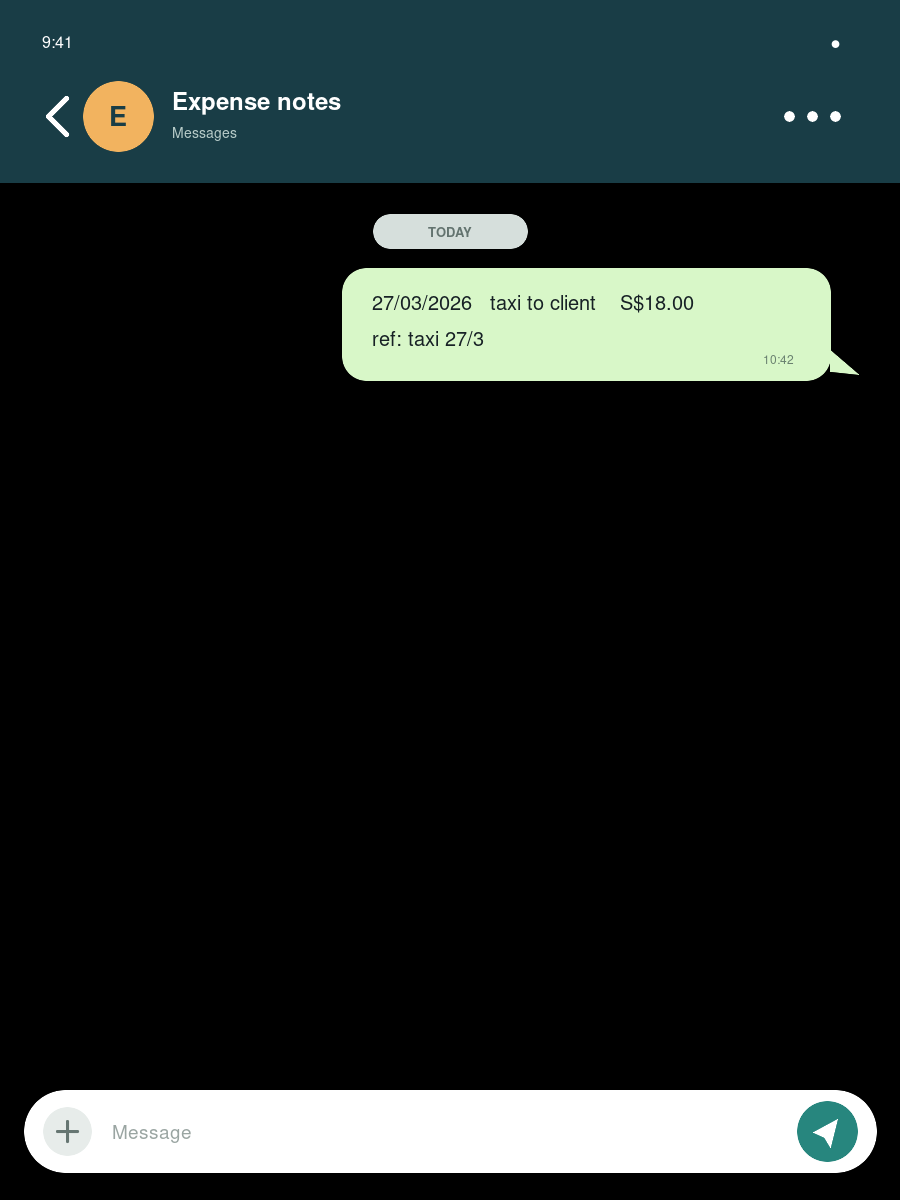
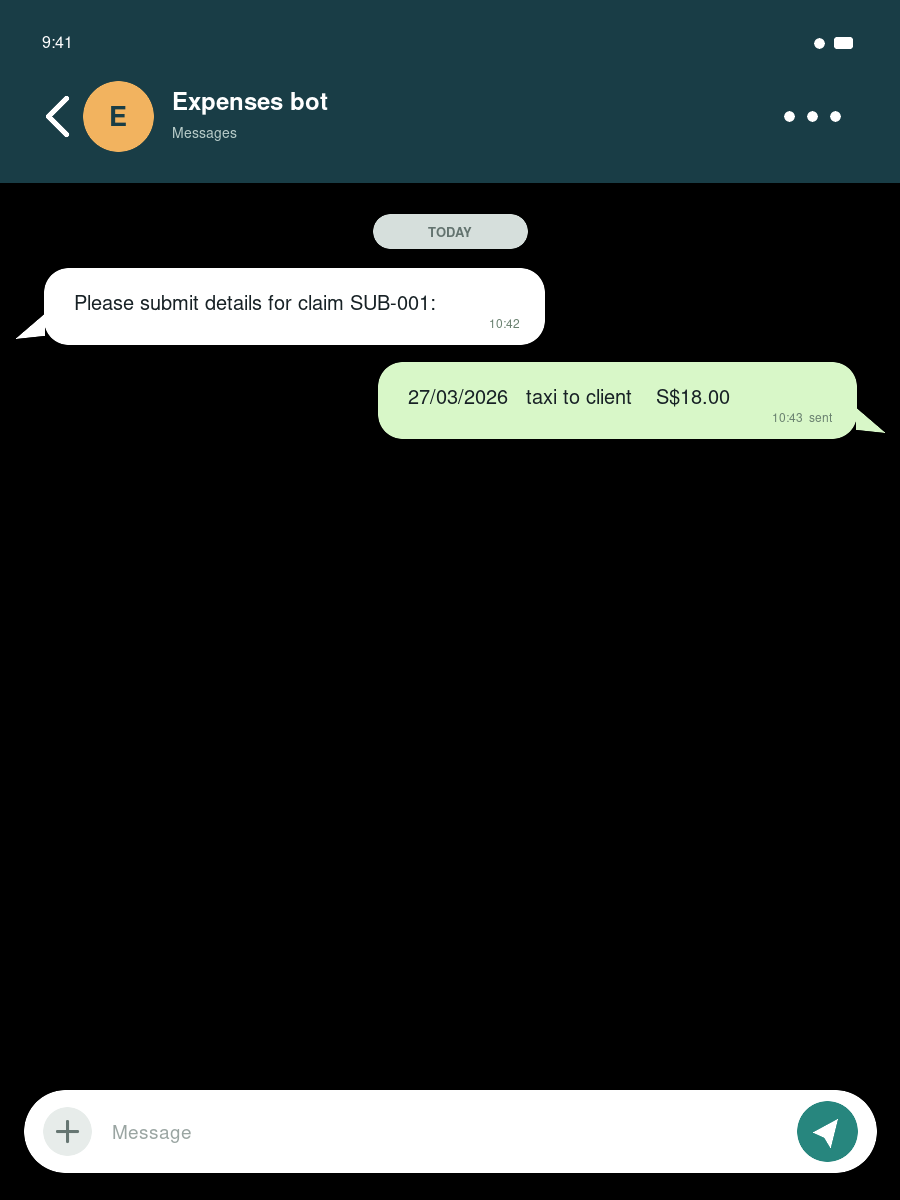
Rework source_04 as a claim chat thread
Source 04 is now a multi-turn conversation with an expenses bot. Every
expense carries a printed SUB-NNN id from the bot's prompt, so students
no longer have to invent one. The duplicate ride is called out in the
thread and names the source_03 id it repeats.

check.py: source_of is a prefix table that knows SUB- and reports an
unrecognised id instead of silently bucketing it as source_04. Level 1
now rejects unknown ids outright and, on a row-count mismatch, names the
sources that are off with their claim.csv line numbers.

strip-instructor.sh: activate AGENTS.ignore.md for students.

Claude-Session: https://claude.ai/code/session_01NWCZbiUNeGnnPsG38BW2Eq

Changed region(s): [[0.0311, 0.2158, 0.9956, 0.37], [0.9022, 0.0308, 0.9644, 0.0617], [0.3111, 0.0617, 0.3733, 0.0925]]

diff --git a/dataset/display/.render/source_04.py b/dataset/display/.render/source_04.py
@@ -1,27 +1,85 @@
 """Mobile messaging-app screenshot renderer."""
 
 import html
+import textwrap
+
+WRAP = 46
+LINE = 36
+TOP = 268
+FLOOR = 1060
+GAP = 18
+SPEAKERS = (("(Agent)", True), ("(User)", False))
+
+
+def _thread(text: str) -> list[tuple[bool, list[str]]]:
+    """Split a note into (from_agent, wrapped lines) bubbles, oldest first.
+
+    An unmarked line continues the bubble above it.
+    """
+    bubbles: list[tuple[bool, list[str]]] = []
+    for raw in text.splitlines()[1:]:
+        line = raw.strip()
+        if not line:
+            continue
+        for marker, from_agent in SPEAKERS:
+            if line.startswith(marker):
+                body = line[len(marker) :].strip()
+                bubbles.append((from_agent, textwrap.wrap(body, WRAP) or [""]))
+                break
+        else:
+            if not bubbles:
+                raise ValueError(f"Message before any speaker marker: {line!r}")
+            bubbles[-1][1].extend(textwrap.wrap(line, WRAP))
+    if not bubbles:
+        raise ValueError("Note has no messages")
+    return bubbles
+
+
+def _bubble(
+    index: int, from_agent: bool, lines: list[str], top: int
+) -> tuple[str, int]:
+    height = 76 + (len(lines) - 1) * LINE
+    width = min(640, max(300, max(len(line) for line in lines) * 11 + 60))
+    fill = "#fff" if from_agent else "#d8f7c8"
+    left = 44 if from_agent else 856 - width
+    tail = (
+        f'<path d="M44 {top + height - 30}l-28 24 28-3z" fill="{fill}"/>'
+        if from_agent
+        else f'<path d="M856 {top + height - 30}l28 24-28-3z" fill="{fill}"/>'
+    )
+    body = "".join(
+        f'<text x="{left + 30}" y="{top + 42 + i * LINE}" class="message">'
+        f"{html.escape(line)}</text>"
+        for i, line in enumerate(lines)
+    )
+    stamp = f"10:{42 + index:02d}" + ("" if from_agent else "  sent")
+    node = (
+        f'<rect x="{left}" y="{top}" width="{width}" height="{height}" rx="24" '
+        f'fill="{fill}"/>{tail}{body}'
+        f'<text x="{left + width - 24}" y="{top + height - 16}" text-anchor="end" '
+        f'class="sans" font-size="12" fill="#69806f">{stamp}</text>'
+    )
+    return node, height
 
 
 def render(text: str, _seed: str) -> str:
-    lines = [line.strip() for line in text.splitlines()[1:] if line.strip()]
-    width = min(700, max(390, max(len(line) for line in lines) * 11 + 70))
-    x = 830 - width
-    height = 76 + (len(lines) - 1) * 36
-    message_nodes = "".join(
-        f'<text x="{x + 30}" y="{310 + i * 36}" class="message">{html.escape(line)}</text>'
-        for i, line in enumerate(lines)
-    )
-    return f'''<svg xmlns="http://www.w3.org/2000/svg" width="900" height="1200">
+    nodes = []
+    top = TOP
+    for index, (from_agent, lines) in enumerate(_thread(text)):
+        node, height = _bubble(index, from_agent, lines, top)
+        nodes.append(node)
+        top += height + GAP
+    if top > FLOOR:
+        raise ValueError(f"Thread is {top - FLOOR}px too tall for the screen")
+    return f"""<svg xmlns="http://www.w3.org/2000/svg" width="900" height="1200">
 <defs><pattern id="doodle" width="120" height="120" patternUnits="userSpaceOnUse"><path d="M18 25q18-18 35 0M82 18l18 18-18 18M22 82q20-16 40 0t40 0" fill="none" stroke="#8ba09a" stroke-width="2" opacity=".12"/></pattern></defs>
 <style>.sans{{font-family:DejaVu Sans,sans-serif}}.message{{font-family:DejaVu Sans,sans-serif;font-size:20px;fill:#172125}}</style>
 <rect width="900" height="1200" fill="#e8eeeb"/><rect width="900" height="1200" fill="url(#doodle)"/>
 <rect width="900" height="182" fill="#193d46"/><text x="42" y="48" class="sans" font-size="16" fill="#fff">9:41</text><circle cx="819" cy="43" r="5" fill="#fff"/><rect x="834" y="37" width="18" height="11" rx="2" fill="#fff"/>
 <path d="M48 116l18-18m-18 18l18 18" fill="none" stroke="#fff" stroke-width="5"/><circle cx="118" cy="116" r="35" fill="#f2b35f"/><text x="118" y="126" text-anchor="middle" class="sans" font-size="27" font-weight="700" fill="#193d46">E</text>
-<text x="172" y="110" class="sans" font-size="24" font-weight="700" fill="#fff">Expense notes</text><text x="172" y="138" class="sans" font-size="14" fill="#b8ccc9">Messages</text>
+<text x="172" y="110" class="sans" font-size="24" font-weight="700" fill="#fff">Expenses bot</text><text x="172" y="138" class="sans" font-size="14" fill="#b8ccc9">Messages</text>
 <circle cx="789" cy="116" r="5" fill="#fff"/><circle cx="812" cy="116" r="5" fill="#fff"/><circle cx="835" cy="116" r="5" fill="#fff"/>
 <rect x="373" y="214" width="154" height="34" rx="17" fill="#d6dfdc"/><text x="450" y="237" text-anchor="middle" class="sans" font-size="13" font-weight="700" fill="#63736f">TODAY</text>
-<rect x="{x}" y="268" width="{width}" height="{height}" rx="24" fill="#d8f7c8"/><path d="M830 {268 + height - 30}l28 24-28-3z" fill="#d8f7c8"/>{message_nodes}
-<text x="{x + width - 24}" y="{268 + height - 16}" text-anchor="end" class="sans" font-size="12" fill="#69806f">10:42  sent</text>
+{"".join(nodes)}
 <rect x="24" y="1090" width="852" height="82" rx="41" fill="#fff"/><circle cx="67" cy="1131" r="24" fill="#e7ecea"/><path d="M57 1131h20m-10-10v20" stroke="#667672" stroke-width="3"/><text x="112" y="1139" class="sans" font-size="19" fill="#9aa5a2">Message</text><circle cx="827" cy="1131" r="30" fill="#27867e"/><path d="M813 1132l24-13-7 28-6-10z" fill="#fff"/>
-</svg>'''
+</svg>"""

diff --git a/check.py b/check.py
@@ -25,6 +25,8 @@ CLAIM_START = date(2026, 3, 1)
 CLAIM_END = date(2026, 7, 31)
 EMPTY_TOKENS = {"n/a", "na", "-", "--", "none", "null", "nil"}
 MONEY_RE = re.compile(r"^\d+\.\d{2}$")
+PREFIXES = (("R-", 1), ("TXN", 2), ("HN-", 3), ("SUB-", 4))
+UNKNOWN_SOURCE = 0
 
 
 class CheckError(Exception):
@@ -34,15 +36,11 @@ class CheckError(Exception):
 
 
 def source_of(receipt_id: str) -> int:
-    if receipt_id.startswith("R-"):
-        return 1
-    if receipt_id.startswith("TXN"):
-        return 2
-    if receipt_id.startswith("HN-"):
-        return 3
-    if receipt_id.startswith("FOLIO"):
-        return 5
-    return 4
+    """Source file a receipt_id came from, or UNKNOWN_SOURCE if nothing matches."""
+    for prefix, source in PREFIXES:
+        if receipt_id.startswith(prefix):
+            return source
+    return UNKNOWN_SOURCE
 
 
 def load_csv(path: Path) -> list[dict[str, str]]:
@@ -63,6 +61,29 @@ def parse_day(value: str) -> date:
     return date.fromisoformat(value)
 
 
+def _count_breakdown(rows: list[dict[str, str]], checksums: dict[str, str]) -> str:
+    """Name the sources whose row count is off, with the claim.csv lines in each.
+
+    Level 1 only has aggregate checksums, so it can point at the bucket that is
+    wrong but not at the individual bad row.
+    """
+    groups: dict[int, list[int]] = {}
+    for index, row in enumerate(rows, start=2):
+        rid = (row.get("receipt_id") or "").strip()
+        groups.setdefault(source_of(rid), []).append(index)
+    detail = ["  Grouped by the prefix on each receipt_id."]
+    for src in (1, 2, 3, 4):
+        lines = groups.get(src, [])
+        expected = int(checksums[f"count_source_{src:02d}"])
+        if len(lines) == expected:
+            continue
+        where = f" - lines {', '.join(str(n) for n in lines)}" if lines else ""
+        detail.append(
+            f"    source_{src:02d}: {len(lines)} rows, expected {expected}{where}"
+        )
+    return "\n".join(detail)
+
+
 def level_structure(rows: list[dict[str, str]], checksums: dict[str, str]) -> None:
     print("Level 1  structure")
     if not rows:
@@ -71,13 +92,28 @@ def level_structure(rows: list[dict[str, str]], checksums: dict[str, str]) -> No
     if actual_cols != COLUMNS:
         raise CheckError(f"Columns must be {COLUMNS} in that order. Got {actual_cols}.")
 
+    unknown: list[str] = []
+    for index, row in enumerate(rows, start=2):
+        rid = (row.get("receipt_id") or "").strip()
+        if rid and source_of(rid) == UNKNOWN_SOURCE:
+            unknown.append(f"    line {index}: {rid}")
+    if unknown:
+        raise CheckError(
+            f"{len(unknown)} receipt_id value(s) match no known prefix.\n"
+            "  Copy the id printed on the document: R- (source_01), "
+            "TXN (source_02), HN- (source_03), SUB- (source_04).\n"
+            "  Do not build an id out of the date or the vendor name.\n"
+            + "\n".join(unknown)
+        )
+
     expected_n = int(checksums["row_count"])
     if len(rows) != expected_n:
         direction = "high" if len(rows) > expected_n else "low"
         raise CheckError(
-            f"Row count is {len(rows)}, expected {expected_n} ({direction}). "
-            "Voided sales and reprint copies are not rows. "
-            "A second lunch at the same stall on a different day is a row."
+            f"Row count is {len(rows)}, expected {expected_n} ({direction}).\n"
+            "  Voided sales and reprint copies are not rows. "
+            "A second lunch at the same stall on a different day is a row.\n"
+            + _count_breakdown(rows, checksums)
         )
 
     seen: dict[str, int] = {}

diff --git a/dataset/display/.render/README.md b/dataset/display/.render/README.md
@@ -7,7 +7,9 @@
 - `source_01.py`: distressed physical thermal receipts on wood, with perforations, tears, rotation, creases, splotches, tape, speckles, burn lines, and uneven monospace ink.
 - `source_02.py`: uniform email printouts in a drab PDF viewer, with fixed white pages, message metadata, and a monospace receipt body.
 - `source_03.py`: colorful GoRide app screenshots with a route map, pickup/drop-off timeline, fare breakdown, total, and payment status.
-- `source_04.py`: messaging-app screenshots with the source note in an outgoing chat bubble.
+- `source_04.py`: messaging-app screenshots of a claim thread. Lines marked
+  `(Agent)` render as incoming bubbles and `(User)` as outgoing ones, so a note
+  can span several turns. An unmarked line continues the bubble above it.
 
 The dispatcher reads the selected source file, splits it at receipt boundaries, passes each block to its renderer, and rasterizes the returned SVG to a 900 x 1200 PNG with ImageMagick. Source 01's seed is derived from the source and receipt number, so its wear remains reproducible.
 
